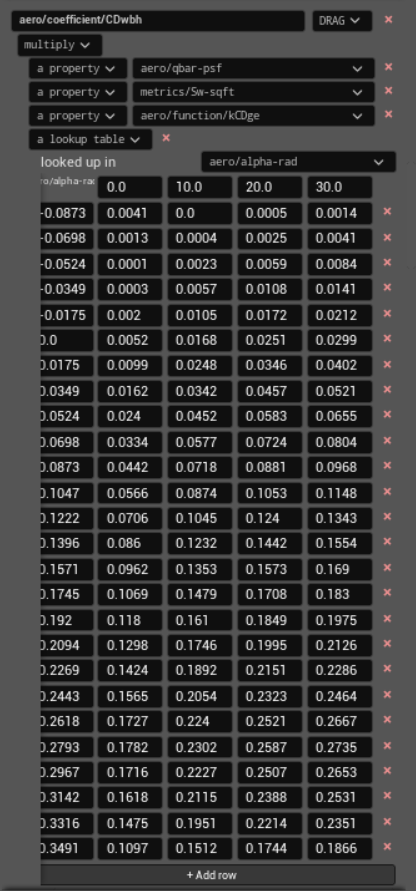
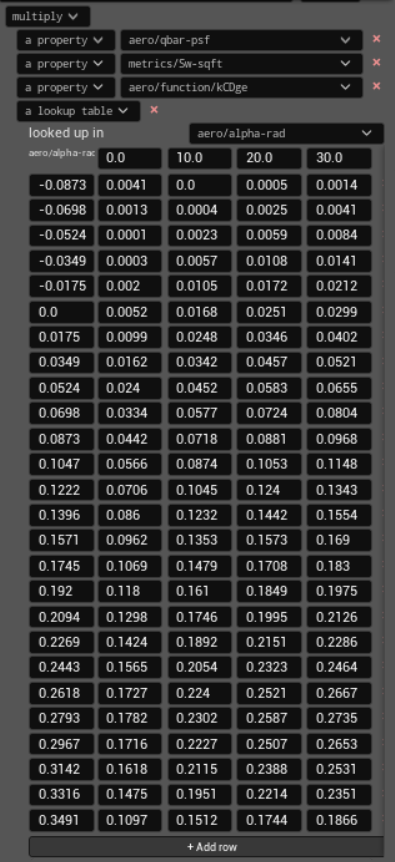
Correct aerodynamics editor details

diff --git a/docs/source/editor/aerodynamics.rst b/docs/source/editor/aerodynamics.rst
@@ -48,7 +48,10 @@ Value sources
    Supplies the mathematical constant pi.
 
 **random (gaussian)** and **random (uniform)**
-   Supply random values using the distribution stored in the formula.
+   **random (gaussian)** uses a mean of 0 and a standard deviation of 1 by
+   default. **random (uniform)** uses values from -1 to 1 by default. The
+   ``mean``, ``stddev``, ``lower``, and ``upper`` attributes already present
+   in the vehicle file are preserved, but the panel cannot edit them.
 
 **a lookup table**
    Returns a value from a curve or multidimensional table.
@@ -73,8 +76,8 @@ The operation picker contains the following groups:
   **integer part of**, **not**, **floor of**, **ceiling of**,
   **degrees to radians**, and **radians to degrees** take exactly one
   operand.
-* **round to a multiple** takes one operand to round or a second operand that
-  specifies the multiple.
+* **round to a multiple** takes the value and, optionally, the multiple to
+  which it is rounded.
 * **if / then / else** takes exactly three operands: the condition, the value
   returned when true, and the value returned when false.
 * **rotation: alpha**, **rotation: beta**, and **rotation: gamma** take six
@@ -92,11 +95,14 @@ Declarations and new functions
 its property path and starting value, then read it from formulas like any
 other property. A declaration without an explicit value starts at zero.
 Removing a declaration while a formula still reads it makes that reference
-invalid.
+unresolved. Apply does not detect this against the currently loaded model,
+where the old property still exists. The next model load stops and reports
+the missing property by name.
 
 **+ coefficient** adds a function under **LIFT**. Its initial formula is
 ``aero/qbar-psf × metrics/Sw-sqft × 0``, so it produces zero until its
-name, axis, inputs, and constant are changed.
+constant is changed. Changing only its name or axis does not change that zero
+result.
 
 When **Apply to FDM** is pressed, PteroSim checks every property read by an
 aerodynamic formula. Apply is refused if the loaded model does not publish a
@@ -113,8 +119,8 @@ For a curve, **looked up in** selects the input property. **in** contains its
 breakpoints and **out** contains the returned values. The graph displays the
 same pairs. Values between rows are interpolated. Below the first breakpoint
 or above the last one, the nearest end value is held constant. **+ Add row**
-appends another breakpoint and copies the previous output as its initial
-value.
+places another breakpoint one step beyond the last row and copies the last
+output as its initial value.
 
 A two-dimensional table is shown as a grid. The upper-left label identifies
 the row property, and the first column contains its numeric breakpoints. The
@@ -164,9 +170,9 @@ Grid
 ``aero/coefficient/CDwbh`` contains a two-dimensional table. Its rows use
 ``aero/alpha-rad``; the numeric column breakpoints are 0, 10, 20, and 30.
 In the source model, the hidden column property is
-``fcs/flap-pos-deg``, so each column contains the angle-of-attack values
-for one flap position. The table result is multiplied by dynamic pressure,
-reference wing area, and the ``kCDge`` helper.
+``fcs/flap-pos-deg``, so each column contains drag values across the listed
+angles of attack for one flap position. The table result is multiplied by
+dynamic pressure, reference wing area, and the ``kCDge`` helper.
 
 .. image:: ../Images/editor_aerodynamics_04.png
    :alt: A grid indexed by angle of attack and flap position
